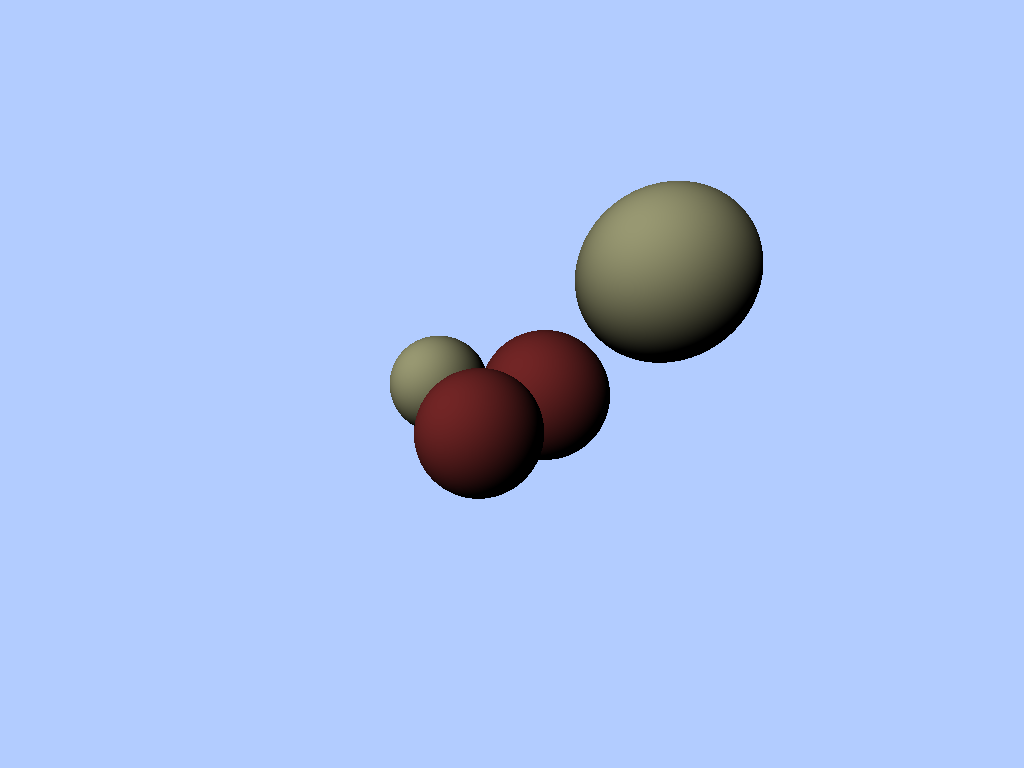
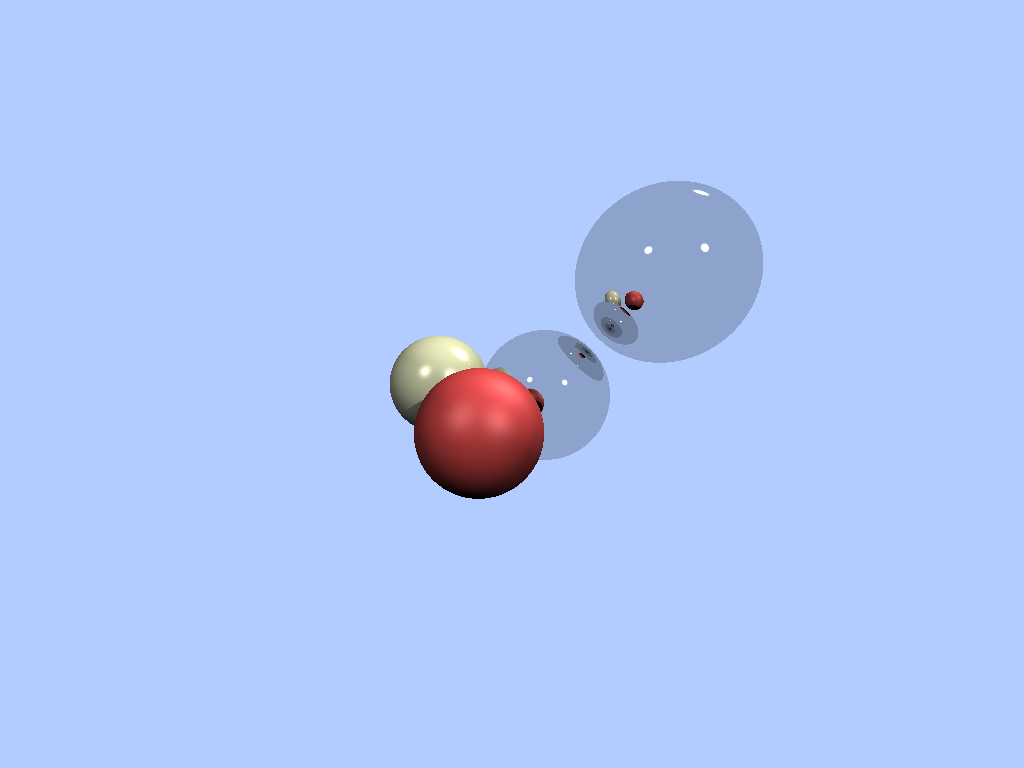
.

Changed region(s): [[0.375, 0.2188, 0.75, 0.6562]]

diff --git a/src/main.rs b/src/main.rs
@@ -6,90 +6,176 @@ use std::f64::consts::PI;
 use image::Image;
 use nalgebra::Vector3;
 
+use object::Light;
 use object::Material;
 use object::Sphere;
-use object::Light;
+// use rand::random;
 
 const BACKGROUND_COLOR: Vector3<f64> = Vector3::new(0.7, 0.8, 1.0);
+const MAX_RECURSION_DEPTH: u32 = 6;
 
+fn reflect(i: Vector3<f64>, n: Vector3<f64>) -> Vector3<f64> {
+    return i - n * 2.0 * (i.dot(&n));
+}
+
+/// Generate a ray from the camera to given object and evaluate the intersection
+/// if there is an intersection, return the intersection point, normal and material
+///
+/// ### Arguments
+///
+/// * `ray_origin` - The origin of the ray (point of origin)
+/// * `ray_direction` - The direction of the ray
+/// * `spheres` - The sphere to intersect with
+///
+/// ### Returns
+///
+/// `(bool, Vector3<f64>, Vector3<f64>, Material)` - Whether the ray intersects the sphere or not,
+/// the intersection point, the normal and the material
+///
 fn scene_intersect(
     ray_origin: Vector3<f64>,
     ray_direction: Vector3<f64>,
     spheres: &Vec<Sphere>,
-    hit: &mut Vector3<f64>,
-    n: &mut Vector3<f64>,
-    material: &mut Material,
-) -> bool {
+) -> Option<(bool, Vector3<f64>, Vector3<f64>, Material)> {
+    // initialize defaults
+    let mut point = Vector3::default();
+    let mut n = Vector3::default();
+    let mut material = Material::default();
+
     let mut spheres_dist = std::f64::MAX;
     for sphere in spheres {
-        // println!("sphere: {:?}", sphere);
         let mut dist_i = 0.0;
         let (is_intersect, dist_i0) = sphere.ray_intersect(ray_origin, ray_direction, dist_i);
         dist_i = dist_i0;
         if is_intersect && dist_i < spheres_dist {
             spheres_dist = dist_i;
-            *hit = ray_origin + ray_direction * dist_i;
-            *n = (*hit - sphere.center).normalize() as Vector3<f64>;
-            *material = sphere.material.clone();
+            point = ray_origin + ray_direction * dist_i;
+            n = (point - sphere.center).normalize() as Vector3<f64>;
+            material = sphere.material.clone();
         }
     }
-    spheres_dist < 1000.0
+    Some((spheres_dist < 1000.0, point, n, material))
 }
 
-fn cast_ray(origin: Vector3<f64>, direction: Vector3<f64>, spheres: &Vec<Sphere>, lights: &Vec<Light>) -> Vector3<f64> {
-    let mut shadow_point = Vector3::new(0.0, 0.0, 0.0);
-    let mut shadow_n = Vector3::new(0.0, 0.0, 0.0);
-    let mut tmp_material = Material::new(Vector3::new(0.0, 0.0, 0.0));
-
-    if !scene_intersect(origin, direction, spheres, &mut shadow_point, &mut shadow_n, &mut tmp_material) {
+/// Compute the color of the ray at the point of intersection
+///
+/// ### Arguments
+///
+/// * `origin` - The origin of the ray (point of origin)
+/// * `direction` - The direction of the ray (normalized)
+/// * `spheres` - The list of spheres in the scene
+/// * `lights` - The list of lights in the scene
+///
+/// ### Returns
+///
+/// Vector3<f64> - The color of the ray at the point of intersection
+///
+/// ### Notes
+///
+/// The ray is defined by the parametric equation:
+///
+/// `P(t) = origin + t * direction`
+///
+fn cast_ray(
+    origin: Vector3<f64>,
+    direction: Vector3<f64>,
+    spheres: &Vec<Sphere>,
+    lights: &Vec<Light>,
+    depth: u32,
+) -> Vector3<f64> {
+    let (is_intersect, point, n, material) = scene_intersect(origin, direction, spheres).unwrap();
+    if !is_intersect || depth > MAX_RECURSION_DEPTH {
         return BACKGROUND_COLOR;
     }
 
+    let reflect_direction = reflect(direction, n);
+    let reflect_origin = if reflect_direction.dot(&n) < 0.0 {
+        point - n * 1e-3
+    } else {
+        point + n * 1e-3
+    };
+    let reflect_color = cast_ray(
+        reflect_origin,
+        reflect_direction,
+        spheres,
+        lights,
+        depth + 1,
+    );
+
     let mut diffuse_light_intensity = 0.0;
+    let mut specular_light_intensity = 0.0;
     for light in lights {
-        let light_dir  = (light.position - shadow_point).normalize();
-        let max_light = nalgebra::clamp(light_dir.dot(&shadow_n), 0.0, 1.0);
+        let light_direction = (light.position - point).normalize();
+        let light_distance = (light.position - point).norm();
+
+        // Check if the point lies in the shadow of the current light
+        let shadow_origin = if light_direction.dot(&n) < 0.0 {
+            point - n * 1e-3
+        } else {
+            point + n * 1e-3
+        };
+
+        let (shadow_intersect, shadow_pt, _, _) =
+            scene_intersect(shadow_origin, light_direction, spheres).unwrap();
+        if shadow_intersect && (shadow_pt - shadow_origin).norm() < light_distance {
+            continue;
+        }
+
+        let max_light = nalgebra::clamp(light_direction.dot(&n), 0.0, 1.0);
         diffuse_light_intensity += light.intensity * max_light;
+
+        let minus_ref = reflect(light_direction, n).dot(&direction);
+        let power = nalgebra::clamp(minus_ref, 0.0, 1.0);
+        specular_light_intensity += power.powf(material.specular_exponent) * light.intensity;
     }
-    let diffuse_color = tmp_material.diffuse_color * diffuse_light_intensity;
-    // if diffuse_color == tmp_material.diffuse_color {
-    //     println!("diffuse_color: {:?}", diffuse_color);
-    //     panic!("diffuse_color == tmp_material.diffuse_color");
-    // } else {
-    //     println!("diffuse_color: {:?}", diffuse_color);
-    //     println!("tmp_material.diffuse_color: {:?}", tmp_material.diffuse_color);
-    // }
+    let mut diffuse_color = material.diffuse_color * diffuse_light_intensity * material.albedo[0];
+    diffuse_color += Vector3::new(1.0, 1.0, 1.0) * specular_light_intensity * material.albedo[1];
+    diffuse_color += reflect_color * material.albedo[2];
     diffuse_color
 }
 
+/// Render a scene with spheres and lights
 fn render(spheres: &Vec<Sphere>, lights: &Vec<Light>) {
+    // size of the resulting image in pixels
     let width: u32 = 1024;
     let height: u32 = 768;
+    // field of view in radians (90 degrees)
     let fov: f64 = PI / 2.0;
-    
-    let mut framebuffer = vec![Vector3::new(0.0, 0.0, 0.0); (width * height) as usize];
 
-    let mut pixel_index: usize;
+    println!("Generating image...");
+    // `framebuffer` is a 1D array of pixels (3D vectors, containing RGB values) that will be rendered
+    // to an image. It is indexed as `framebuffer[y * width + x]` (row-major order).
+    let mut framebuffer = vec![Vector3::new(0.0, 0.0, 0.0); (width * height) as usize];
+    // go through each pixel of the image and cast a ray through it to
+    // find the color of the pixel
     for j in 0..height {
         for i in 0..width {
-            let x: f64 = (2.0 * (i as f64 + 0.5) / width as f64 - 1.0)
-                * (fov / 2.0).tan()
-                * width as f64
-                / height as f64;
-            let y: f64 =  -(2.0 * (j as f64 + 0.5) / height as f64 - 1.0)
-                * (fov / 2.0).tan();
+            print!("\rScanlines remaining: {}\r", height - j - 1);
+            std::io::Write::flush(&mut std::io::stdout()).unwrap();
+            // X and Y calculated from the camera's perspective by the formula
+            // x = (2 * (i + 0.5) / width - 1) * tan(fov / 2) * width / height
+            // y = -(2 * (j + 0.5) / height - 1) * tan(fov / 2)
+            // z = -1
+            let x: f64 =
+                (2.0 * (i as f64 + 0.5) / width as f64 - 1.0) * (fov / 2.0).tan() * width as f64
+                    / height as f64;
+            let y: f64 = -(2.0 * (j as f64 + 0.5) / height as f64 - 1.0) * (fov / 2.0).tan();
+            // The camera is at (0, 0, 0) and looks along the negative Z axis
+            // The direction of the ray is the normalized vector from the camera to the pixel
             let dir: Vector3<f64> = Vector3::new(x, y, -1.0).normalize();
-            pixel_index = (j * width + i) as usize;
-            // println!("x: {}, y: {}, dir: {:?}, {:?}", i, j, dir, pixel_index);
-            framebuffer[pixel_index] = cast_ray(Vector3::new(0.0, 0.0, 0.0), dir, spheres, lights);
+            framebuffer[(j * width + i) as usize] =
+                cast_ray(Vector3::new(0.0, 0.0, 0.0), dir, spheres, lights, 0);
         }
     }
 
-    // save framebuffer to file
+    // save framebuffer to file (.png format) via Image struct
+    println!("Saving framebuffer to file");
     let mut image = Image::new(width, height);
     for j in 0..height {
         for i in 0..width {
             let pixel_index: usize = (j * width + i) as usize;
+            // convert framebuffer values from floats to 0-255 integers
+            // by multiplying by 255 and clamping to [0, 255]
             let color: Vec<u8> = vec![
                 (255.0 * framebuffer[pixel_index].x) as u8,
                 (255.0 * framebuffer[pixel_index].y) as u8,
@@ -98,38 +184,60 @@ fn render(spheres: &Vec<Sphere>, lights: &Vec<Light>) {
             image.set_pixel(i, j, color);
         }
     }
-    // find unique colors in image and print em out
-    // let mut unique_colors = Vec::new();
-    // for j in 0..height {
-    //     for i in 0..width {
-    //         let pixel_index: usize = (j * width + i) as usize;
-    //         let color: Vec<f64> = vec![
-    //             framebuffer[pixel_index].x,
-    //             framebuffer[pixel_index].y,
-    //             framebuffer[pixel_index].z,
-    //         ];
-    //         if !unique_colors.contains(&color) {
-    //             unique_colors.push(color);
-    //         }
-    //     }
-    // }
-    // println!("unique colors: {:?}", unique_colors);
     image.save("image.png");
 }
 
 fn main() {
-    let ivory = Material::new(Vector3::new(0.4, 0.4, 0.3));
-    let red_rubber = Material::new(Vector3::new(0.3, 0.1, 0.1));
+    let ivory = Material::new(
+        Vector3::new(0.6, 0.3, 0.1),
+        Vector3::new(0.4, 0.4, 0.3),
+        50.0,
+    );
+    let red_rubber = Material::new(
+        Vector3::new(0.9, 0.1, 0.0),
+        Vector3::new(0.3, 0.1, 0.1),
+        10.0,
+    );
+    let mirror = Material::new(
+        Vector3::new(0.0, 10.0, 0.8),
+        Vector3::new(1.0, 1.0, 1.0),
+        1425.0,
+    );
+
+    // const SPHERES_COUNT: i32 = 3;
+    // generate spheres_count random spheres in the field of view
+    // let mut spheres = Vec::new();
+    // for _ in 0..SPHERES_COUNT {
+    //     // choose x, y, z coordinates randomly, but make sure that the sphere is
+    //     // inside the field of view
+    //     let x = random::<f64>() * 2.0 - 1.0;
+    //     let y = random::<f64>() * 2.0 - 1.0;
+    //     let z = random::<f64>() * 2.0 - 1.0;
+    //     let radius: f64 = random::<f64>() * 1.0 + 0.5;
+    //     let material: Material;
+    //     // generate a random integer between 0 and 2 and choose a material
+    //     let choose_mat: i32 = random::<i32>() % 3;
+    //     if choose_mat == 0 {
+    //         material = ivory;
+    //     } else if choose_mat == 1 {
+    //         material = red_rubber;
+    //     } else {
+    //         material = mirror;
+    //     }
+    //     spheres.push(Sphere::new(Vector3::new(x, y, z), radius, material));
+    // }
 
     let spheres = vec![
         Sphere::new(Vector3::new(-3.0, 0.0, -16.0), 2.0, ivory),
         Sphere::new(Vector3::new(-1.0, -1.5, -12.0), 2.0, red_rubber),
-        Sphere::new(Vector3::new(1.5, -0.5, -18.0), 3.0, red_rubber),
-        Sphere::new(Vector3::new(7.0, 5.0, -18.0), 4.0, ivory),
+        Sphere::new(Vector3::new(1.5, -0.5, -18.0), 3.0, mirror),
+        Sphere::new(Vector3::new(7.0, 5.0, -18.0), 4.0, mirror),
     ];
 
     let lights = vec![
-        Light::new(Vector3::new(-20.0, 20.0, 20.0), 1.5)
+        Light::new(Vector3::new(-20.0, 20.0, 20.0), 1.5),
+        Light::new(Vector3::new(30.0, 50.0, -25.0), 1.8),
+        Light::new(Vector3::new(30.0, 20.0, 30.0), 1.7),
     ];
 
     render(&spheres, &lights);

diff --git a/src/object.rs b/src/object.rs
@@ -5,13 +5,27 @@ use nalgebra::Vector3;
 
 #[derive(Clone, Copy)]
 pub struct Material {
-    pub diffuse_color: Vector3<f64>
+    pub diffuse_color: Vector3<f64>,
+    pub albedo: Vector3<f64>,
+    pub specular_exponent: f64
+}
+
+impl Default for Material {
+    fn default() -> Self {
+        Material {
+            diffuse_color: Vector3::new(1.0, 0.0, 0.0),
+            albedo: Vector3::new(1.0, 0.0, 0.0),
+            specular_exponent: 0.0
+        }
+    }
 }
 
 impl Material {
-    pub fn new(diffuse_color: Vector3<f64>) -> Material {
+    pub fn new(albedo: Vector3<f64>, diffuse_color: Vector3<f64>, specular_exponent: f64) -> Material {
         Material {
-            diffuse_color
+            diffuse_color,
+            albedo,
+            specular_exponent
         }
     }
 }
